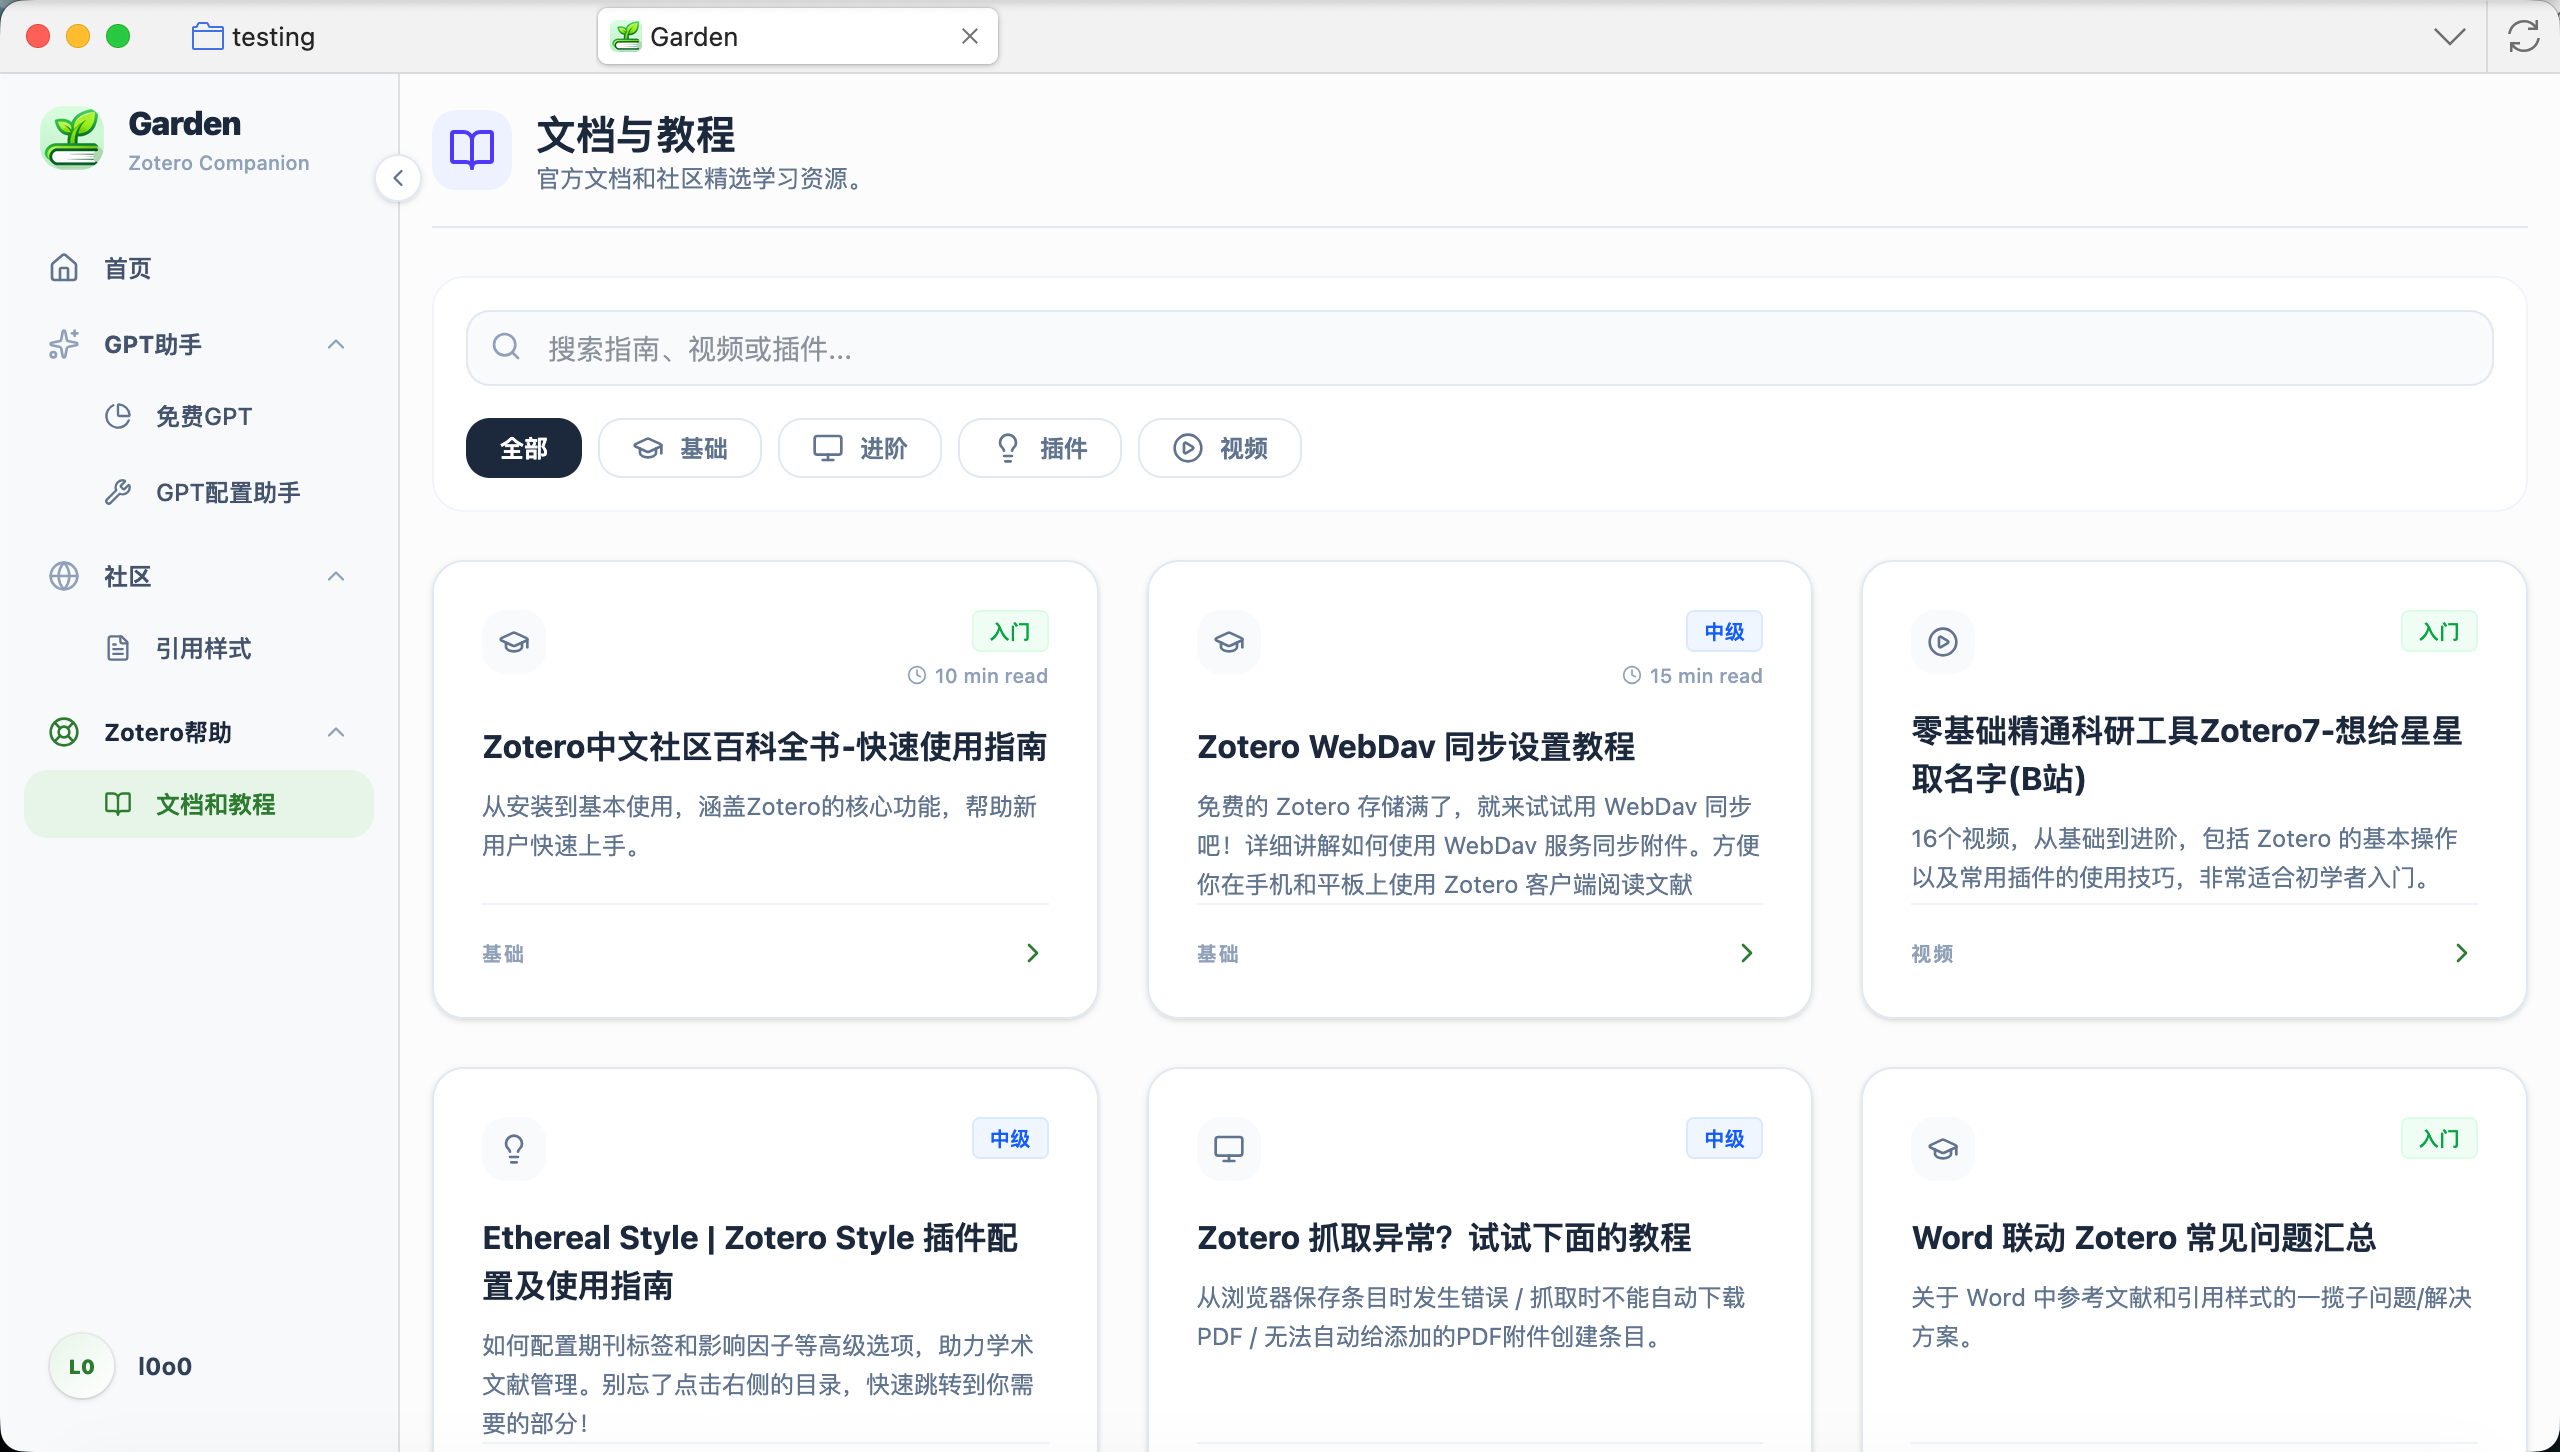
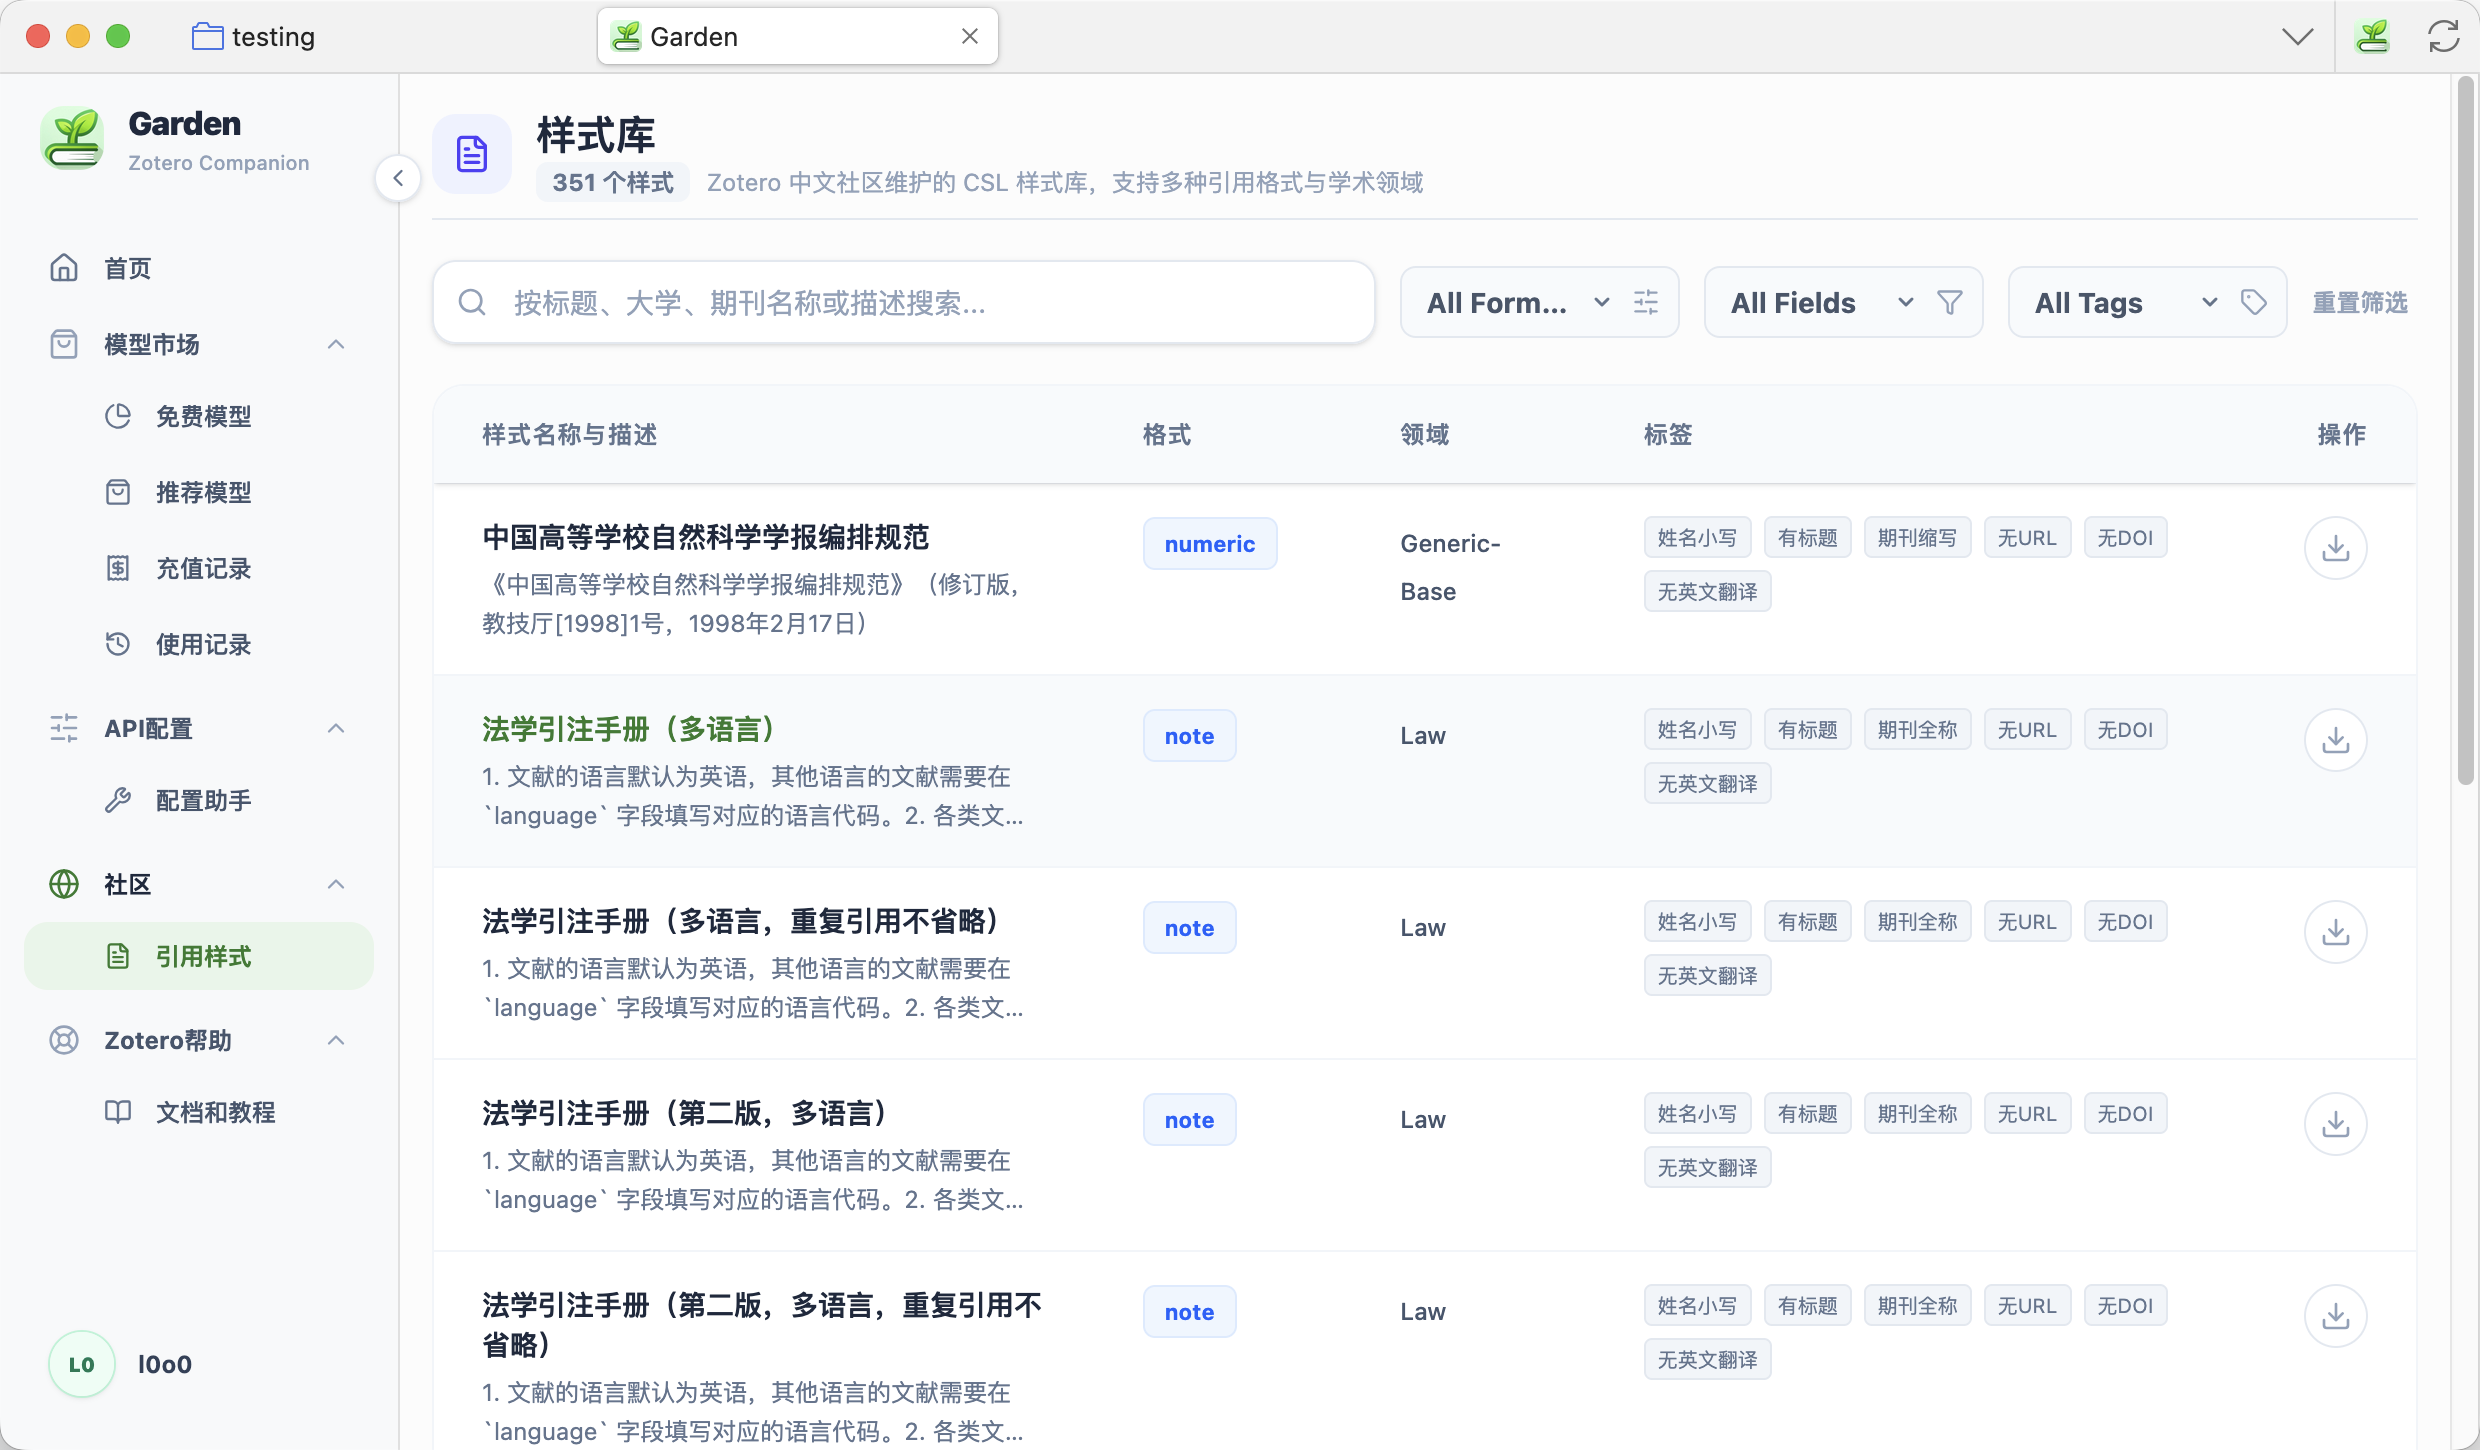
chore(readme): update readme

diff --git a/README.md b/README.md
@@ -12,25 +12,31 @@
 ## ✨ 主要功能
 
 - 🔐 用户认证系统
-- 🤖 GPT API 集成，支持多个 Zotero 插件生态
+- 🎁 免费大模型，开箱即用，可作为免费翻译服务
+- 🤖 全球顶尖大模型 API 集成，支持多个 Zotero 插件生态
 - 📊 Token 使用统计
 - 🛠️ 配置自动注入支持
+- 🎓 Zotero 中文社区资源快速获取
 
-**免费GPT配置**
-支持 Translate for Zotero， Awesome GPT 和 LLM for Zotero
-![alt text](docs/images/image.png)
-
-**GPT配置工具**
-支持国内外多家 GPT 接口提供商，包括 硅基流动，DeepSeek、阿里百炼、字节、小米、MiniMax、Kimi等
+**免费模型**
+支持 Translate for Zotero（作为免费翻译引擎）， Awesome GPT 和 LLM for Zotero
 ![alt text](docs/images/image-1.png)
+
+**推荐模型，在Zotero中快速接入全球顶尖大模型**
+现在你可以在 Garden 的推荐模型列表中，快速将国内外的顶尖模型一键配置到 Zotero 插件中，无效复杂手动配置。
+![alt text](docs/images/image-5.png)
+
+**API配置工具**
+支持国内外多家大模型接口提供商，包括 硅基流动，DeepSeek、阿里百炼、字节、小米、MiniMax、Kimi，Google，OpenAI等
+![alt text](docs/images/image-2.png)
 
 **中文社区CSL资源下载**
 与 https://zotero-chinese.com/styles/ 网站同步更新 CSL 样式文件，支持查询和下载，让你不必离开 Zotero 就能快速下载样式文件。
-![alt text](docs/images/image-2.png)
+![alt text](docs/images/image-3.png)
 
 **Zotero帮助文档**
 精选全网的 Zotero 教程文档和视频，让你快速入门，精通 Zotero 使用。
-![alt text](docs/images/image-3.png)
+![alt text](docs/images/image-4.png)
 
 ## 🔗 支持的插件
 